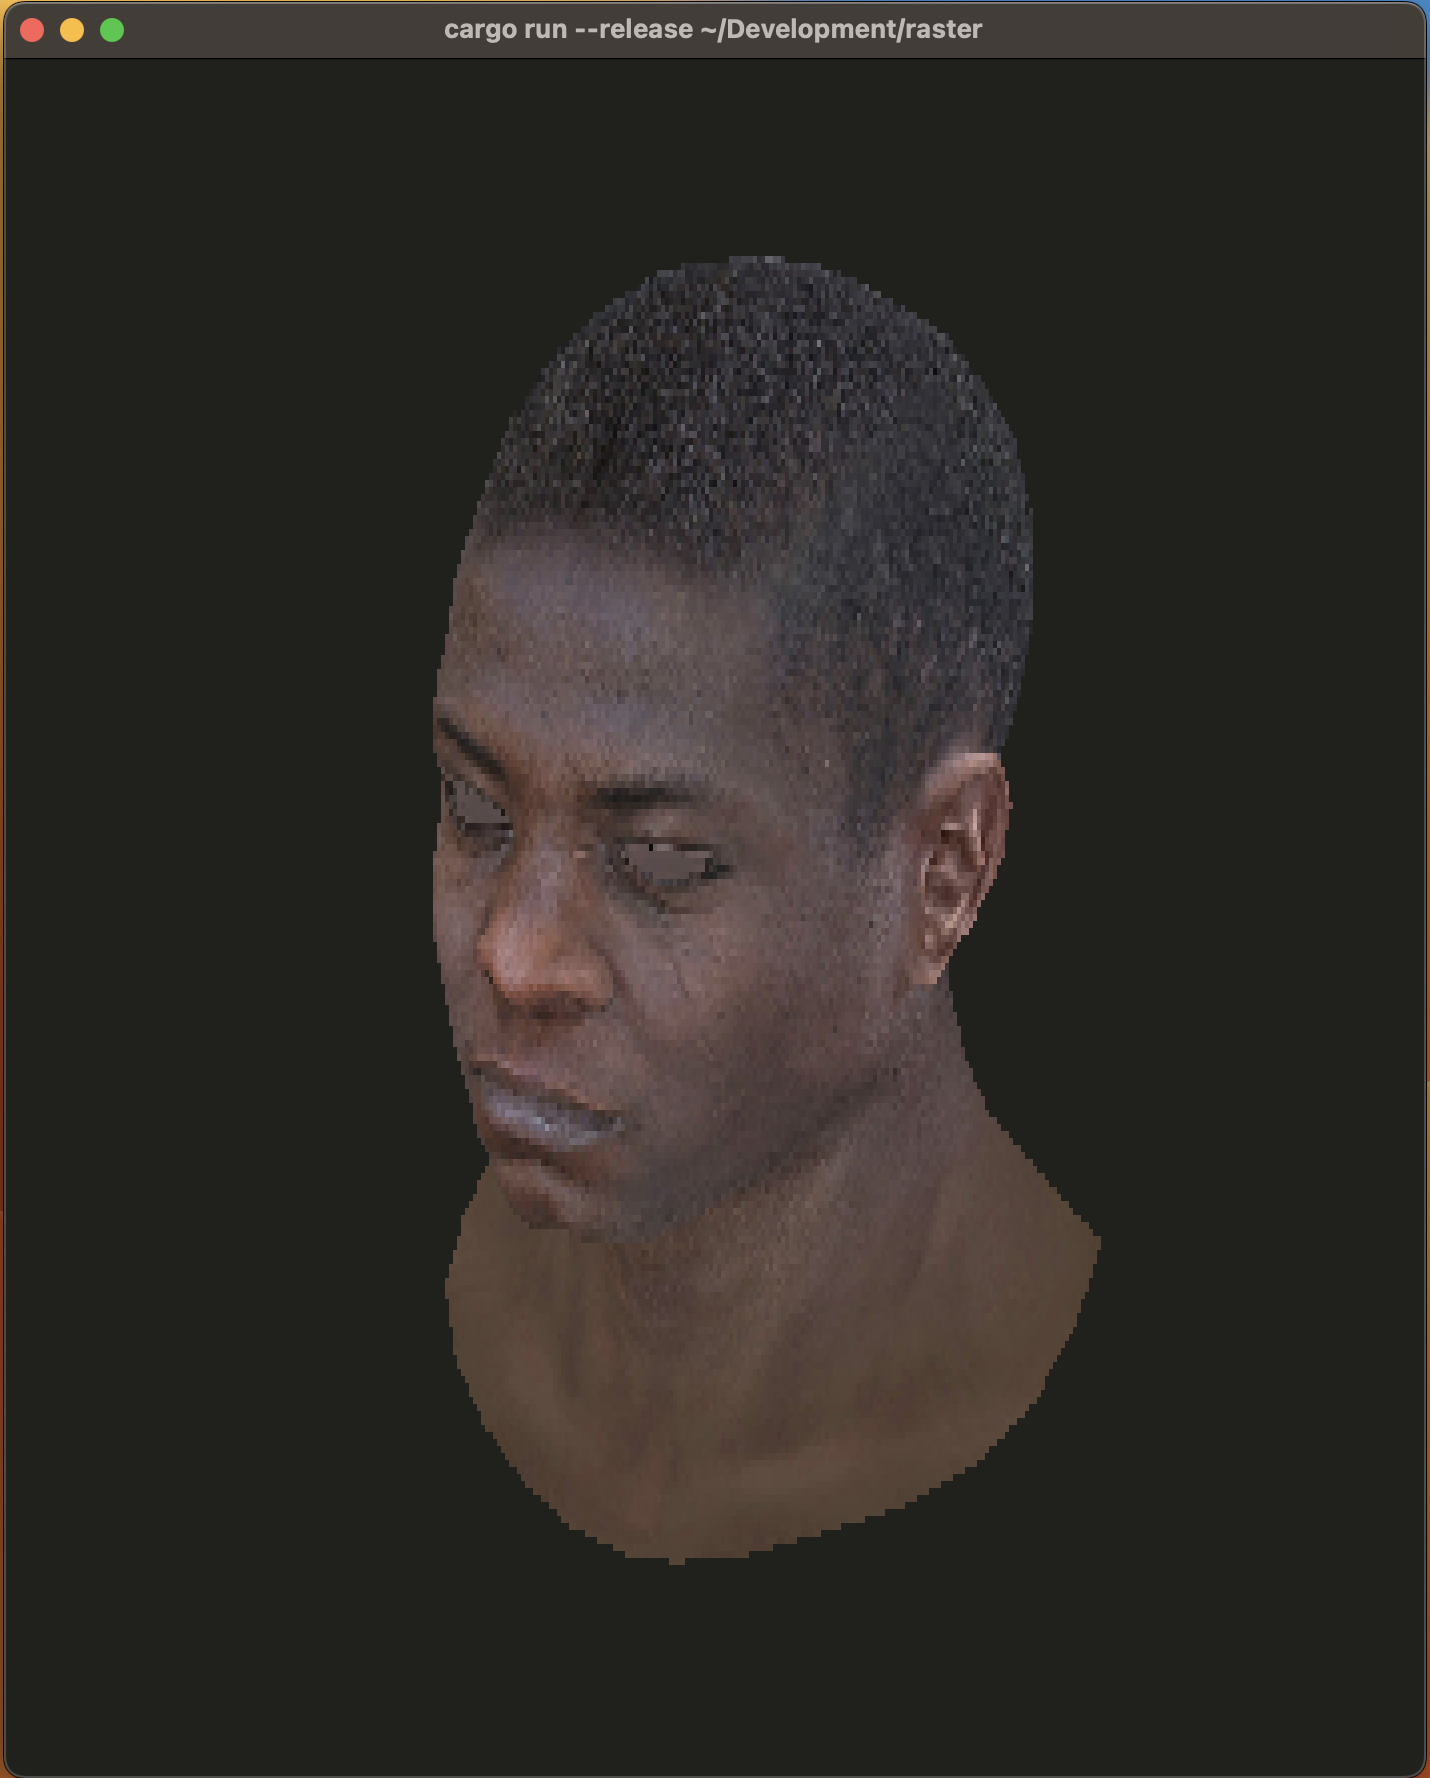
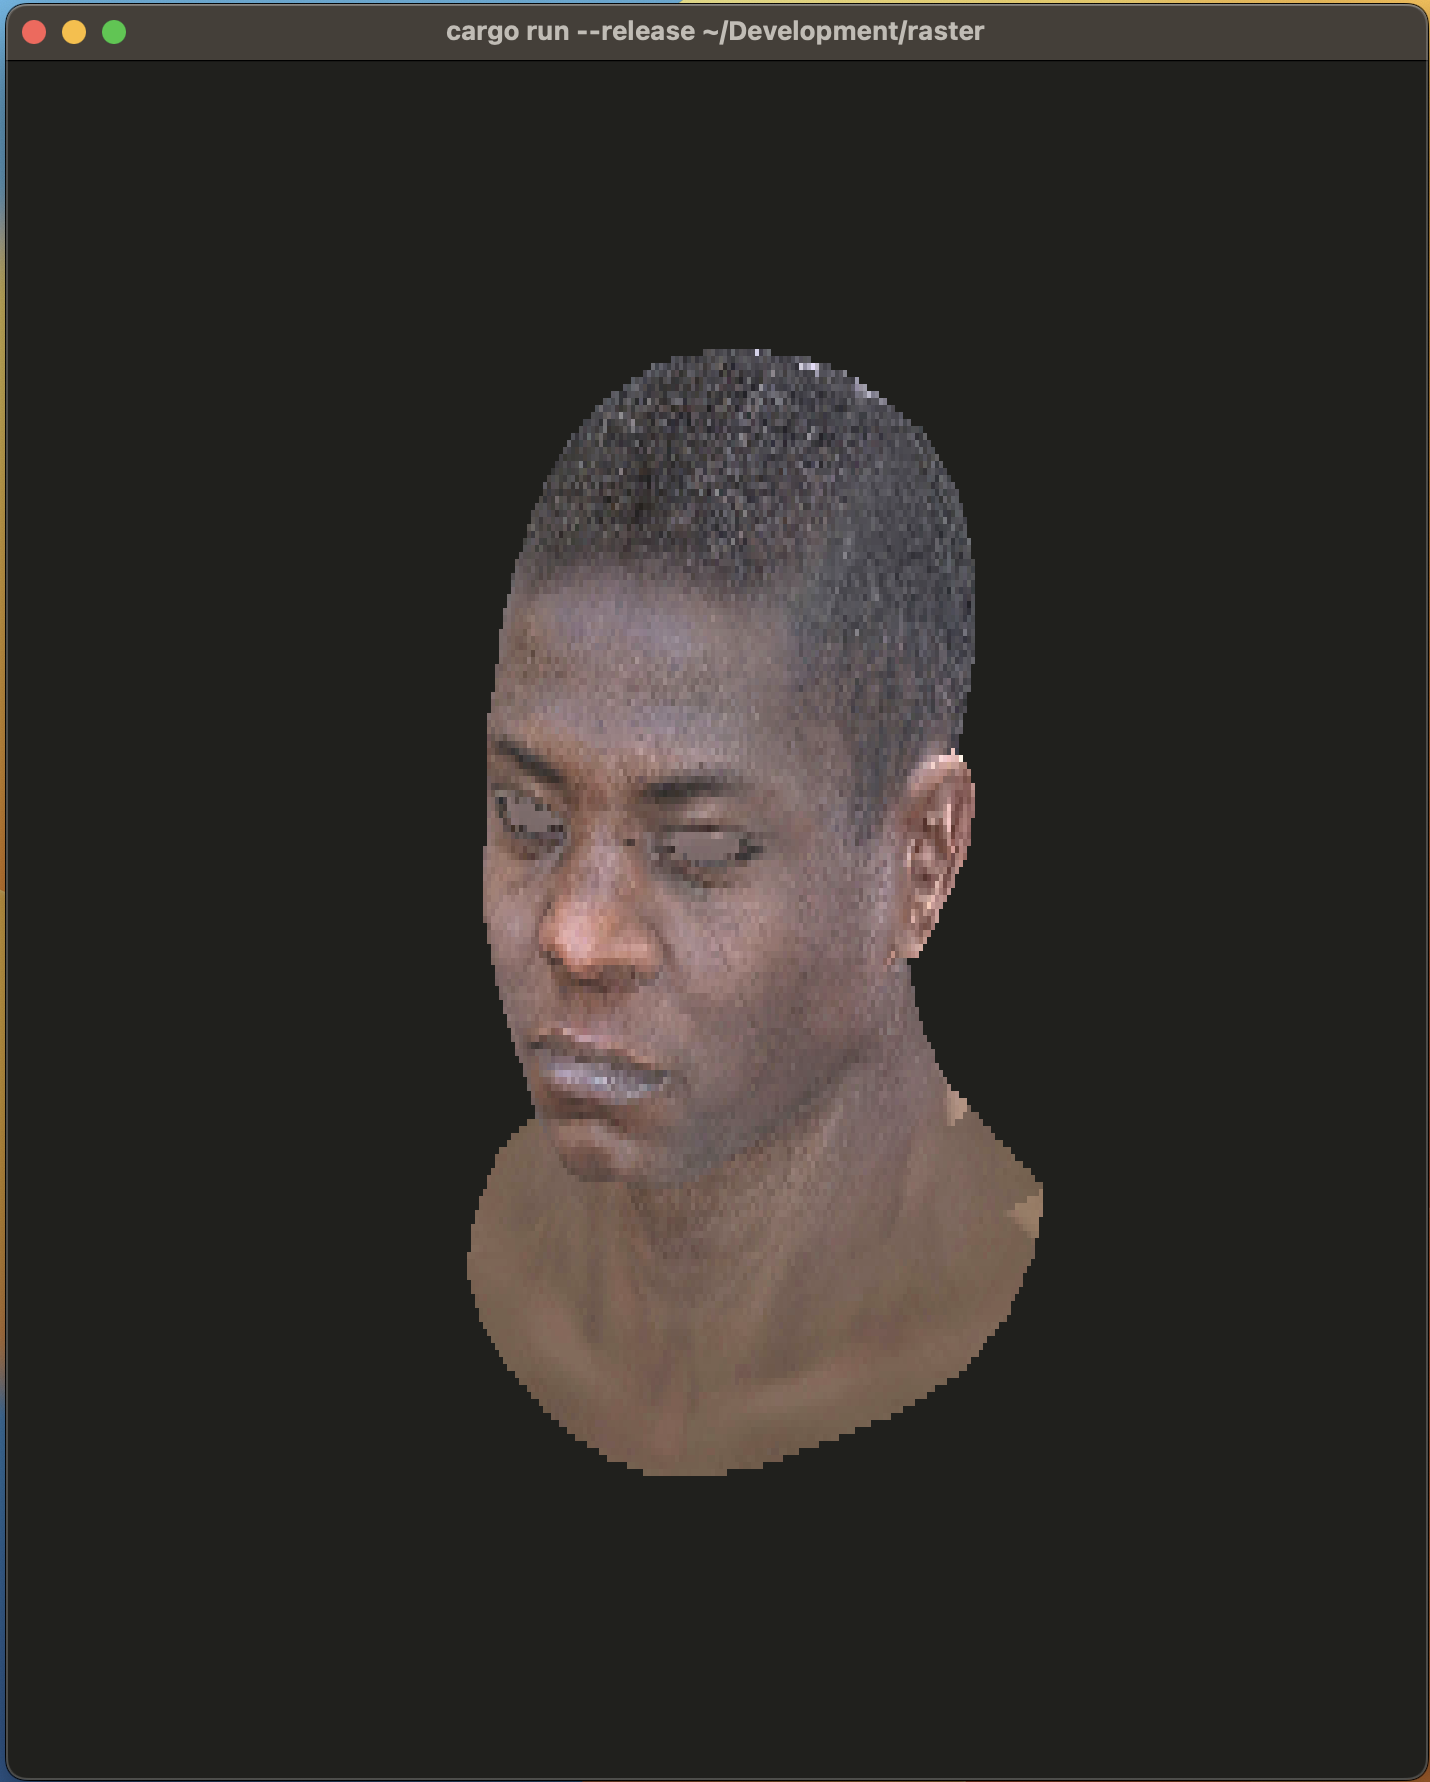
Performance optimizations, fragment shader improvements, update README

Changed region(s): [[0.2769, 0.1237, 0.7692, 0.8971], [0.0, 0.0, 1.0, 1.0]]

diff --git a/src/shader.rs b/src/shader.rs
@@ -5,6 +5,7 @@
  */
 
 use std::collections::HashMap;
+use std::io::{self, Write};
 
 use crate::model::Model;
 use crate::vertex::Vertex;
@@ -70,7 +71,6 @@ impl Shader<'_> {
     self.projection * out
   }
 
-  // TODO: Overhaul this with more accurate shading.
   pub fn fragment(&self, vert: &Vertex, worldspace: Vector3<f32>, screenspace: Vector3<f32>) -> Vector4<f32> {
     let bn = (vert.varying_normal * worldspace).normalize();
     let mut uv = vert.varying_uv * screenspace;
@@ -101,14 +101,18 @@ impl Shader<'_> {
       false => 0.0,
     };
 
-    let result_diffuse = normal.dot(&self.uniform_light).max(0.35);
+    let factor = match self.diffuse_map.loaded {
+        true => 2.0,
+        false => 1.0,
+    };
+    let result_diffuse = normal.dot(&self.uniform_light).max((factor - 1.0) * 0.65);
     let diffuse_contrib = ((normal * result_diffuse * 2.0) - self.uniform_light).normalize();
     let result_specular = (-diffuse_contrib.z).max(0.0).powf(5.0 + specular);
 
     let diffuse = (match self.diffuse_map.loaded {
       true => self.diffuse_map.get(uv),
       false => ONES * 255.0,
-    }).scale(2.0 * (result_diffuse + result_specular)).add_scalar(10.0);
+    }).scale(factor * (result_diffuse + result_specular)).add_scalar(10.0);
     Vector4::new(
       diffuse.x.clamp(0.0, 255.0),
       diffuse.y.clamp(0.0, 255.0),
@@ -200,8 +204,7 @@ impl Shader<'_> {
       }
       esc += "\n";
     }
-    // TODO: Find some way to do a raw printf
-    println!("{}", esc);
+    let _ = io::stdout().write_all(esc.as_bytes());
   }
 
   pub fn set_diffuse(&mut self, filename: &String) {

diff --git a/README.md b/README.md
@@ -32,10 +32,28 @@ The only required argument is the model `.obj` file, but diffuse, normal, and sp
 $ cargo run obj/head.obj map/head_diffuse.tga map/head_normal.tga map/head_specular.tga
 ```
 
+## Per-File Technical Overview
+
+- [`UI`](https://github.com/Cubified/raster.rs/blob/main/src/ui.rs#L22):  Escape sequence handler for mouse inputs.  Opens a channel on a second thread to read from stdin without blocking the render thread.
+- [`EscSeq`](https://github.com/Cubified/raster.rs/blob/main/src/esc.rs#L12):  An escape sequence parser using a basic DFA/state machine.  Somewhat inspired by [`vt100utils`](https://github.com/Cubified/vt100utils).
+- [`Model`](https://github.com/Cubified/raster.rs/blob/main/src/model.rs#L19):  OBJ file parser.  Builds vertex, normal, and UV buffers from valid OBJ commands.
+- [`Shader`](https://github.com/Cubified/raster.rs/blob/main/src/shader.rs#L19):  Vertex and fragment shaders, plus the rendering routine responsible for displaying an entire frame of pixels.  Uses some basic string comparisons as optimizations, because writing unnecessary graphics commands to stdout would be significantly slower.
+- [`Orbit`](https://github.com/Cubified/raster.rs/blob/main/src/orbit.rs#L12):  3D orbit controls.  Largely ported from Three.js' [OrbitControls](https://github.com/mrdoob/three.js/blob/309e5f6f64c7af9087e0fb6f7cbf83a9fd2a4fef/examples/jsm/controls/OrbitControls.js).
+- [`Vertex`](https://github.com/Cubified/raster.rs/blob/main/src/vertex.rs#L10):  Vertex math, including [barycentric coordinates](https://en.wikipedia.org/wiki/Barycentric_coordinate_system).
+
 ## To-Do
 
-- Improve fragment shader (WIP code is commented out)
+- Further improve fragment shader
+- Investigate more performance improvements
+- Better viewport calculation/zoom controls
+- Test on a wider variety of 3D models
 
 ## References
 
 - [tinyrenderer](https://github.com/ssloy/tinyrenderer)
+
+## Some of My Other Terminal Projects
+
+- [`tuibox`](https://github.com/Cubified/tuibox):  A single-header terminal UI (TUI) library in C.
+- [`vt100utils`](https://github.com/Cubified/vt100utils):  A graphics escape sequence parser in C.
+- [`bdfedit`](https://github.com/Cubified/bdfedit):  A bitmap font editor.
